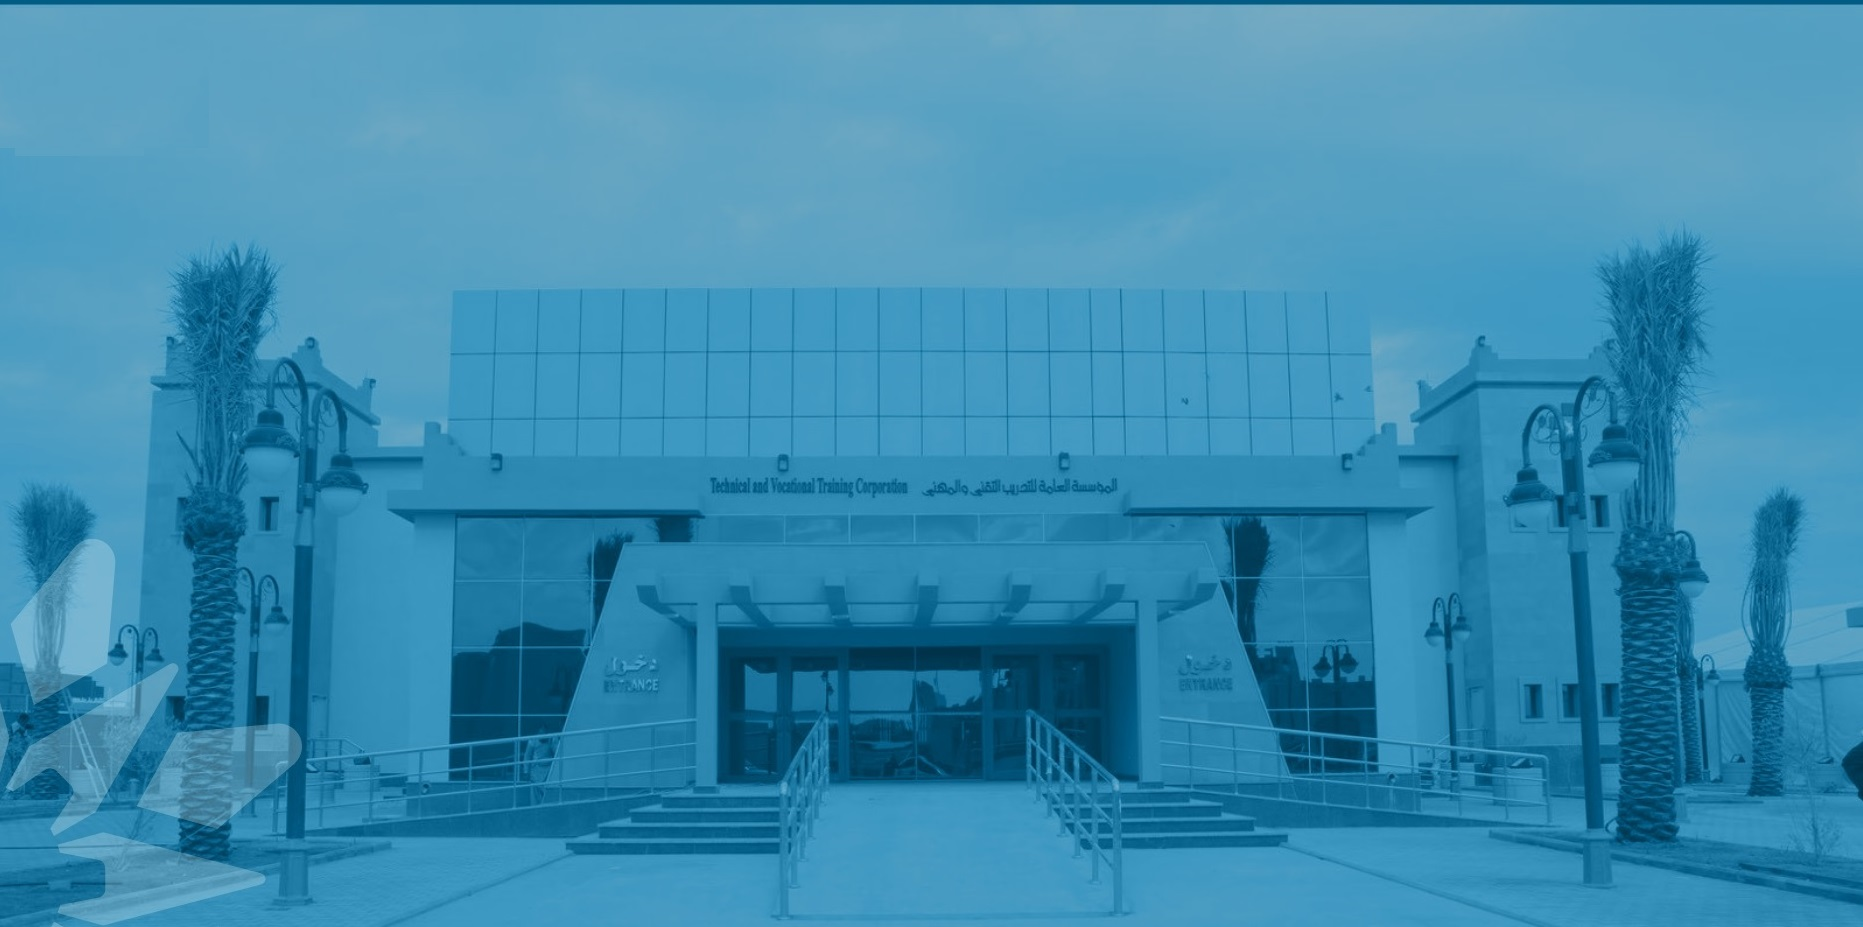
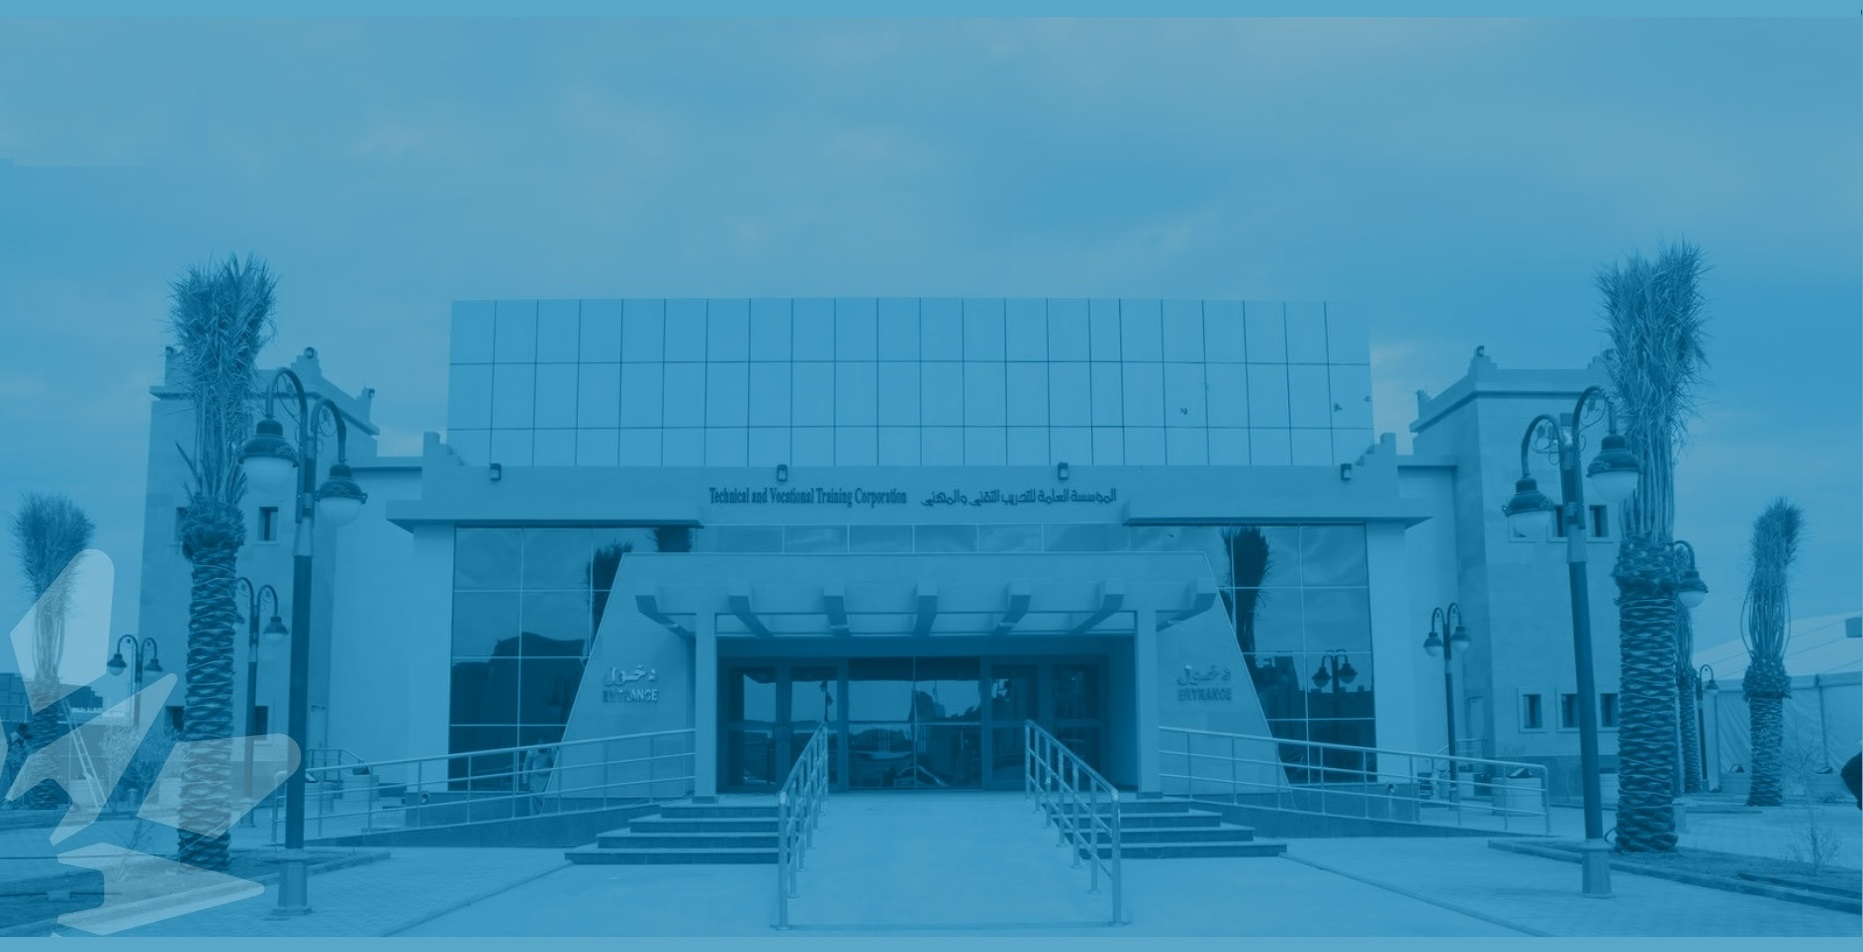
prepre crm v2.0

diff --git a/css/module.css b/css/module.css
@@ -211,9 +211,9 @@ span.object_id {
     background-image: url(../pic/home_banner_001.jpg) !important;
     background-color: #c7e7f6;
     background-size: 100% 110% !important;
-    background-repeat: no-repeat !important;
     background-position-x: center !important;
     background-position-y: 0px !important;
+    background-repeat: repeat-y;
     width: 100%;
     min-height: 1150px !important;
     float: right;
@@ -324,6 +324,21 @@ h2.crm_question {
     color: #167868;
     text-shadow: #6bc9be 1px 1px;
 }
+
+.modal-dialog.popup-login-customer {
+    background: transparent;
+    padding-left: 0px !important;
+    padding-right: 0px !important;
+    padding-bottom: 30px;
+    float: right;
+    min-height: 700px;
+    min-width: 300px !important;
+    width: 80% !important;
+    max-width: 350px;
+    margin-right: 10% !important;
+    margin-left: 30px !important;
+    margin-top: 50px !important;
+} 
 
 .modal-dialog.popup-login {
     background: transparent;
@@ -436,6 +451,18 @@ div.popup-sms-verify>.modal-content {
         margin-top: 130px !important;
         margin-bottom: 10px !important;
     }
+
+    .modal-dialog.popup-login-customer{
+        float: right;
+        min-height: 350px;
+        min-width: 0 !important;
+        max-width: none !important;
+        width: 60% !important;
+        margin-right: 20% !important;
+        margin-left: 20% !important;
+        margin-top: 20px !important;
+
+    }
     
     .modal-dialog.popup-content {
         float: right;
@@ -462,6 +489,17 @@ div.popup-sms-verify>.modal-content {
         margin-top: 130px !important;
         margin-bottom: 10px !important;
     }
+
+    .modal-dialog.popup-login-customer {
+        float: right;
+        min-height: 350px;
+        min-width: 0 !important;
+        max-width: none !important;
+        width: 70% !important;
+        margin-right: 15% !important;
+        margin-left: 15% !important;
+        margin-top: 20px !important;
+    }
     
     .modal-dialog.popup-content {
         float: right;
@@ -487,6 +525,17 @@ div.popup-sms-verify>.modal-content {
         margin-left: 10% !important;
         margin-top: 130px !important;
         margin-bottom: 10px !important;
+    }
+
+    .modal-dialog.popup-login-customer {
+        float: right;
+        min-height: 350px;
+        min-width: 0 !important;
+        max-width: none !important;
+        width: 80% !important;
+        margin-right: 10% !important;
+        margin-left: 10% !important;
+        margin-top: 20px !important;
     }
     
     .modal-dialog.popup-content {
@@ -1038,9 +1087,9 @@ div.crm_calendar {
 
 @media screen and (max-width: 980px) {
     .modal-dialog.popup-login {
-        width: 36% !important;
-        margin-right: 32% !important;
-        margin-left: 32% !important;
+        width: 66% !important;
+        margin-right: 17% !important;
+        margin-left: 17% !important;
         max-width: none !important;
         min-height: 650px !important;
         padding-bottom: 50px !important;
@@ -2818,11 +2867,31 @@ h5.bluetitle.search {
 }
 
 div.home_banner>.modal-dialog.popup-login {
-    margin-right: 30% !important;
+    margin-right: 30%;
     max-width: 950px !important;
+}
+
+div.home_banner>.modal-dialog.popup-login-customer {
+    max-width: 500px !important;
 }
 
 div.modal-dialog>.modal-content {
     border: 1px solid #fff !important;
     animation: none !important;
+}
+
+.icon-322:before {
+    content: "\f0e8";
+}
+
+.icon-324:before {
+    content: "\f0a3";
+}
+
+.icon-323:before {
+    content: "\f007";
+}
+
+.icon-327:before {
+    content: "\f7b6";
 }

diff --git a/monitoring.php b/monitoring.php
@@ -49,6 +49,58 @@ $reqList = Request::loadRecords($where_old_still_not_assigned, $limit="5", $orde
 
 $header_trad = array("missed"=>"عدد الطلبات", "name" => 'الادارة - المشرف');
 
+
+$out_scr .= '<div class="row justify-content-center">    
+<div class="col-lg-12">
+                    <div class="single_element">
+                        <div class="quick_activity">
+                            <div class="row">
+                                <div class="col-12">
+                                    <div class="quick_activity_wrap">
+                                        <div class="single_quick_activity d-flex">
+                                            <div class="icon">
+                                                <img src="/lib/images/man.svg" alt="">
+                                            </div>
+                                            <div class="count_content">
+                                                <h3><span class="counter">520</span> </h3>
+                                                <p>Doctors</p>
+                                            </div>
+                                        </div>
+                                        <div class="single_quick_activity d-flex">
+                                            <div class="icon">
+                                                <img src="/lib/images/cap.svg" alt="">
+                                            </div>
+                                            <div class="count_content">
+                                                <h3><span class="counter">6969</span> </h3>
+                                                <p>Nurses</p>
+                                            </div>
+                                        </div>
+                                        <div class="single_quick_activity d-flex">
+                                            <div class="icon">
+                                                <img src="/lib/images/wheel.svg" alt="">
+                                            </div>
+                                            <div class="count_content">
+                                                <h3><span class="counter">7509</span> </h3>
+                                                <p>Patients</p>
+                                            </div>
+                                        </div>
+                                        <div class="single_quick_activity d-flex">
+                                            <div class="icon">
+                                                <img src="/lib/images/pharma.svg" alt="">
+                                            </div>
+                                            <div class="count_content">
+                                                <h3><span class="counter">2110</span> </h3>
+                                                <p>Pharmacusts</p>
+                                            </div>
+                                        </div>
+                                    </div>
+                                </div>
+                            </div>
+                        </div>
+                    </div>
+                </div>
+    </div>';
+
 $out_scr .= "<div id='page-content-wrapper' class='qsearch_page'><div class='row row-filter-request'>";
 $out_scr .= "<div class='qfilter col-sm-10 col-md-10 pb10'><h1>احصائيات الطلبات المتأخر اسنادها</h1></div>";
 $out_scr .= "<br>\n statsMatrix = \n<br><pre style='direction:ltr;text-align: left;'>".var_export($statsMatrix,true)."</pre>";

diff --git a/index.php b/index.php
@@ -22,43 +22,15 @@ if($objme)
         if($objme->isSuperAdmin())
         {
                 $Main_Page = "monitoring.php";
-<<<<<<< HEAD
                 $MODULE = $My_Module = "crm";
                 AfwMainPage::echoMainPage($My_Module, $Main_Page, $file_dir_name);
-=======
-                $My_Module = "crm";
-                /*
-                $cl = "Request";
-                $currmod="crm";
-                */
-                unset($_POST);
-                unset($_GET);
-                $customerMe = null;
-        
-                require("$file_dir_name/../lib/afw/afw_main_page.php"); AfwMainPage::echoMainPage($MODULE);
->>>>>>> fc44ba392bef732750194f6aeb3afd63e52ff420
         }
         elseif($objme_has_crm_employee_role)
         {
                 $file_dir_name = dirname(__FILE__);
                 $Main_Page = "workbox.php";
-<<<<<<< HEAD
                 $MODULE = $My_Module = "crm";
                 AfwMainPage::echoMainPage($My_Module, $Main_Page, $file_dir_name);
-=======
-                $My_Module = "crm";
-                /*
-                $cl = "Request";
-                $currmod="crm";
-                */
-                $customerMe = null;
-                unset($_POST);
-                unset($_GET);
-
-                // AfwRunHelper::simpleError("System under maintenance. contactez RB");
-        
-                require("$file_dir_name/../lib/afw/afw_main_page.php"); AfwMainPage::echoMainPage($MODULE);
->>>>>>> fc44ba392bef732750194f6aeb3afd63e52ff420
         }
         else
         {

diff --git a/models/request.php b/models/request.php
@@ -2860,7 +2860,7 @@ class Request extends AFWObject{
                             $request_id =  $this->id;
                             $title = $this->getVal("request_title");
                             $body = $this->getVal("request_text");
-                            $subject = AfwLanguageHelper::tt("urgent : High priority ticket has been assigned to you, titled", $lang)." [".truncateArabicJomla($title, 20)."]";
+                            $subject = AfwLanguageHelper::tt("urgent : High priority ticket has been assigned to you, titled", $lang)." [".AfwStringHelper::truncateArabicJomla($title, 20)."]";
             
                             $bodyHtml = "";
                             $bodyHtml .= "<h3>$subject</h3><br>";
@@ -3444,7 +3444,7 @@ class Request extends AFWObject{
 /*
         public function instanciated($numInstance)
         {
-            //_back_trace()
+            //_back_ trace()
             if($numInstance>400)
             {
               AfwRunHelper::lightSafeDie("trop dinstances $numInstance", $this);

diff --git a/customer_login.php b/customer_login.php
@@ -15,7 +15,7 @@ $module_dir_name = $file_dir_name;
 require_once("$file_dir_name/../lib/afw/afw_autoloader.php");
 AfwSession::startSession();
 $uri_module = AfwUrlManager::currentURIModule();       
-
+AfwAutoLoader::addMainModule($uri_module);
 if(!$uri_module) die("site code not defined !!!");
 else
 { 
@@ -40,7 +40,7 @@ $debugg_after_session_created = true;
 $customer_msg = null;
 
 require_once("$file_dir_name/../external/db.php");
-// here old require of common.php
+// 
 
 $login_button_title = "دخول الموظف";
 $login_page = "login.php";
@@ -194,7 +194,7 @@ if($desc_site)
 }
 ?>
 <div class="home_banner login_banner">
-<div class="modal-dialog popup-login">
+<div class="modal-dialog popup-login-customer">
         <div class="modal-header">                        
                     <?php
                        if($customer_msg)

diff --git a/main.php b/main.php
@@ -1,7 +1,6 @@
 <?php
 $file_dir_name = dirname(__FILE__); 
 include_once ("$file_dir_name/ini.php");
-<<<<<<< HEAD
 include_once ("$file_dir_name/module_config.php"); 
 require("$file_dir_name/../lib/afw/afw_main_page.php"); 
 if($_REQUEST["Main_Page"])
@@ -13,14 +12,3 @@ else
     $Main_Page = "home.php";
 }
 AfwMainPage::echoMainPage($MODULE, $Main_Page, $file_dir_name);
-=======
-include_once ("$file_dir_name/module_config.php");
-
-//echo "The system is under maintenance please contact administrator or try later.";
-
-
-$file_dir_name = dirname(__FILE__);
-require("$file_dir_name/../lib/afw/afw_main_page.php"); AfwMainPage::echoMainPage($MODULE);
-
-?>
->>>>>>> fc44ba392bef732750194f6aeb3afd63e52ff420

diff --git a/home.php b/home.php
@@ -17,12 +17,9 @@
    elseif($objme)
    {
       $customerMe = null;
-<<<<<<< HEAD
-      include("$file_dir_name/stats.php");
-=======
-
-      require("$file_dir_name/../lib/afw/afw_main_page.php"); AfwMainPage::echoMainPage($MODULE);
->>>>>>> fc44ba392bef732750194f6aeb3afd63e52ff420
+      $file_dir_name = dirname(__FILE__);
+      require("$file_dir_name/../lib/afw/afw_main_page.php"); 
+      AfwMainPage::echoMainPage("crm","monitoring.php", $file_dir_name);
    }
    else
    {

diff --git a/customer_register.php b/customer_register.php
@@ -45,7 +45,7 @@ $gender_id_selected_2 = "";
 $gender_id_selected_1 = "selected";
         
 require_once("$file_dir_name/../external/db.php");
-// here old require of common.php
+// 
 
 if(($_SESSION["user_avail"] == "Y") and ($_SESSION["user_firstname"])) 
 {

diff --git a/customer_verify.php b/customer_verify.php
@@ -46,7 +46,7 @@ $gender_id_selected_2 = "";
 $gender_id_selected_1 = "selected";
         
 require_once("$file_dir_name/../external/db.php");
-// here old require of common.php
+// 
 
 if(AfwSession::customerIsConnected()) 
 {

diff --git a/login_trainee.php b/login_trainee.php
@@ -30,7 +30,7 @@ else
 
 
 require_once("$file_dir_name/../external/db.php");
-// here old require of common.php
+// 
 
 $debugg_login = false;
 $debugg_login_die = false; 
